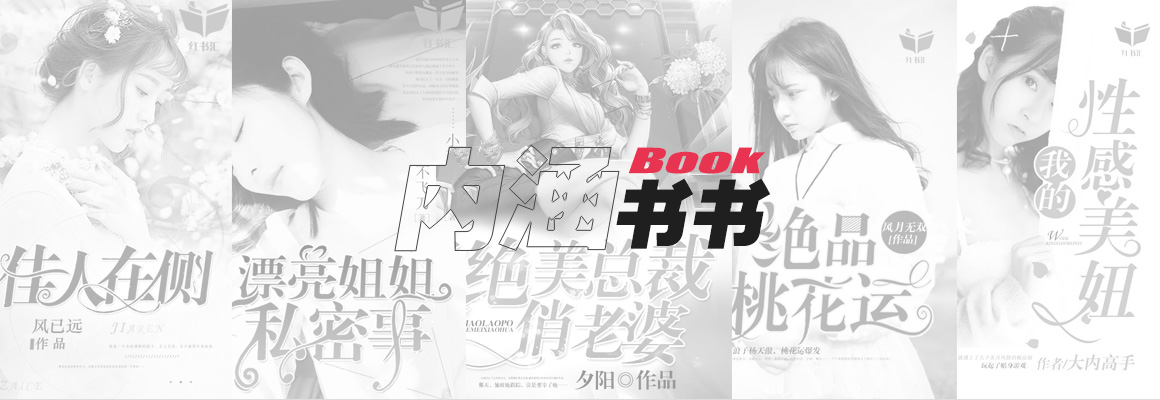
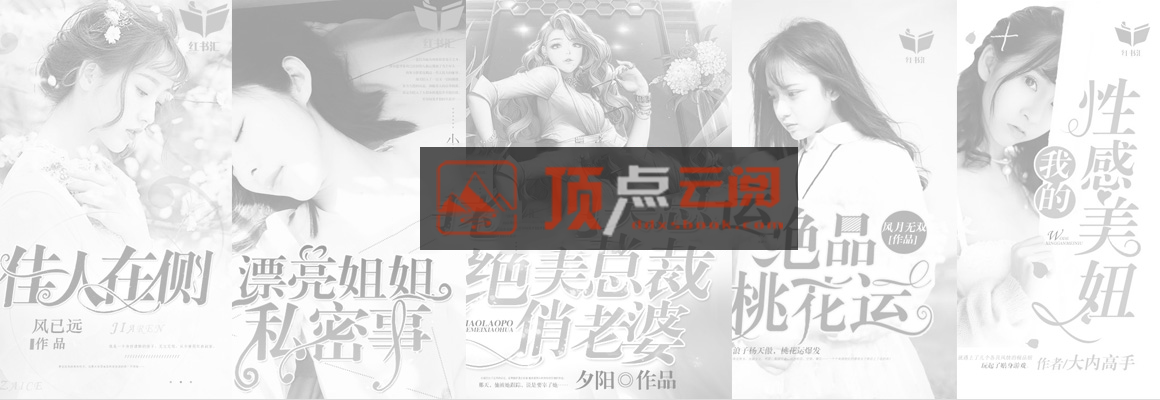
提交修改

Changed region(s): [[0.3414, 0.36, 0.7138, 0.63]]

diff --git a/ddxsbook/application/contribute/view/public/index.html b/ddxsbook/application/contribute/view/public/index.html
@@ -3,7 +3,7 @@
 	<head>
 		<meta charset="UTF-8">
 		<meta name="viewport" content="width=device-width, initial-scale=1, user-scalable=no">
-		<title>{block name="title"}顶点文学-精品新媒体网文订制工作室{/block}</title>
+		<title>{block name="title"}顶点云阅-最新最好看的免费原创小说阅读网{/block}</title>
 		{block name="permit_revamp_css"}
 		<link rel="stylesheet" type="text/css" href="{:asset('/static/css/swiper.min.css')}"/>
 		<link rel="stylesheet" type="text/css" href="{:asset('/static/layui/css/layui.css')}" />

diff --git a/ddxsbook/application/contribute/view/index/book/show.html b/ddxsbook/application/contribute/view/index/book/show.html
@@ -1,6 +1,6 @@
 {extend name="public:index" /}
 
-{block name="title"}顶点文学-精品新媒体网文订制工作室-{$book->title}{/block}
+{block name="title"}顶点云阅-最新最好看的免费原创小说阅读网-{$book->title}{/block}
 
 {block name="main"}
 <!--作品页内容-->
